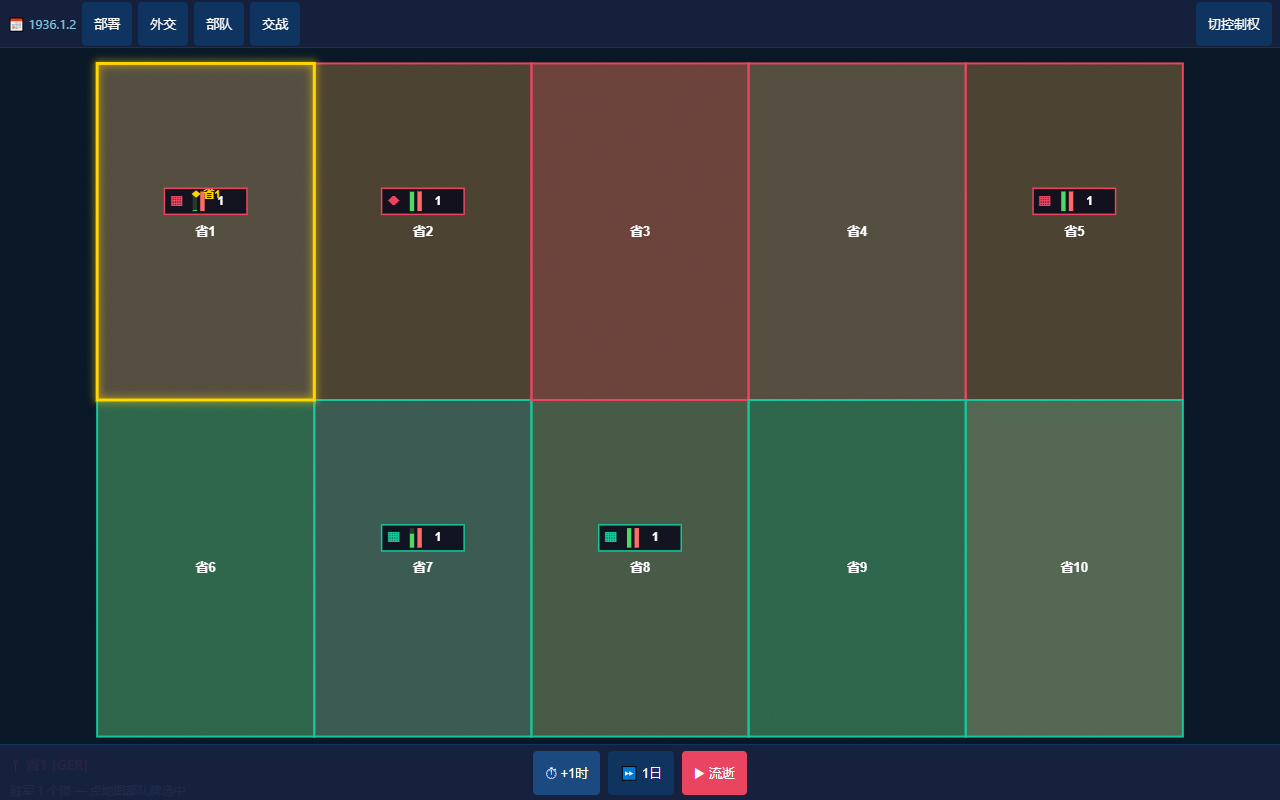
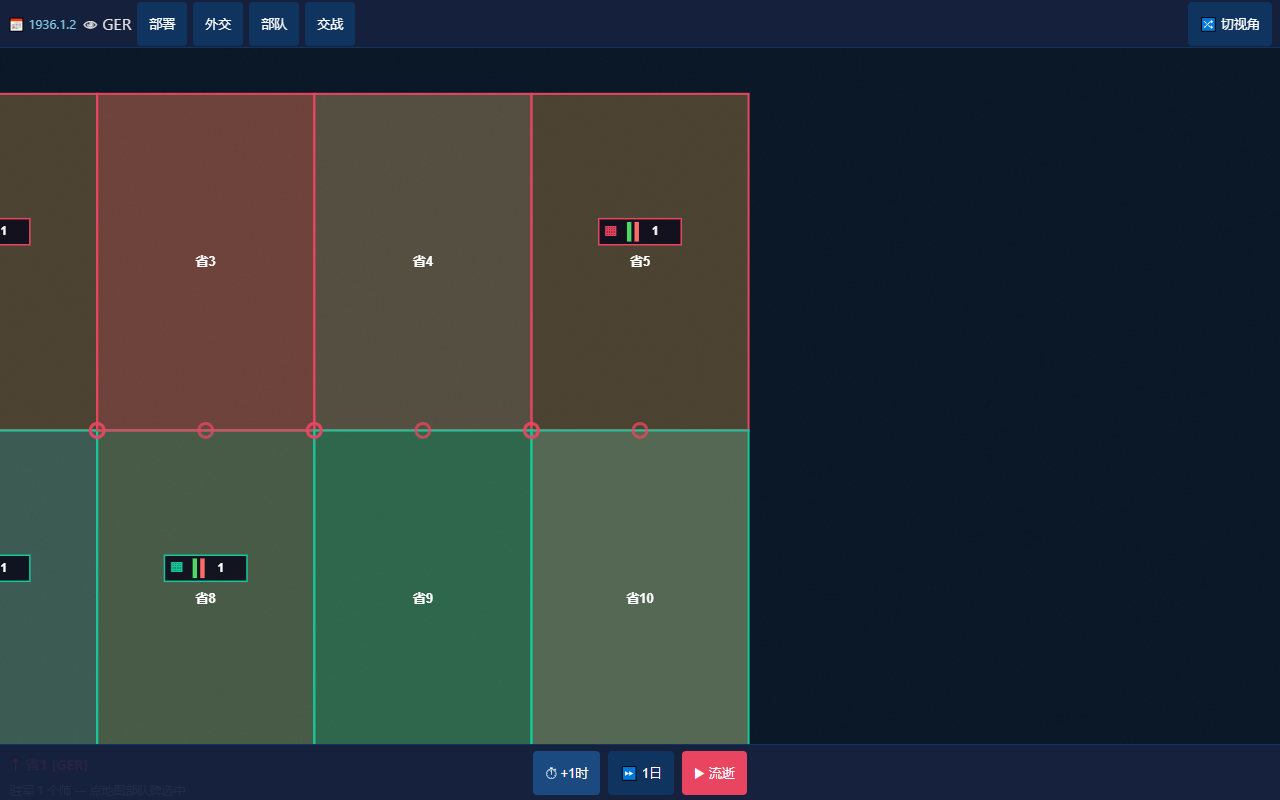
feat: 国家视角 — 单国家控制权限 + 切视角(对齐原版)
调研原版: 玩家始终只控制 player_tag 一个国家, 非玩家部队只能看不能动;
切国家用控制台 tag(模拟为'切视角'按钮)。原 demo 无权限校验=上帝模式。

引擎层(combat/commands.rs):
- 4 个下令命令(move/support_attack/queue_move/stop_order)加 player_controls 校验
- owner != player_tag → 静默拒绝下令; player_tag 空(CLI/测试)放行
- create_division 不校验(setup 建双方部队合理)
- TDD: t_player_cannot_order_foreign_division(GER 玩家不能动 FRA 师)

前端层:
- main.js: onDownCheck 返回 canCommand(owner==player), 敌师不进拖拽下令;
  onHit 加敌师信息查看(只看不下令); 删除上帝模式(改省归属)
- deployPanel: owner 锁定 player(只能部署自己国家)
- topbar: '切控制权'改'切视角'(弹 GER/FRA 选择, setPlayer 切 player_tag);
  顶栏显示当前视角标签(👁 GER)

web_demo 22/22: 含'拖拽敌师不可下令(menu=false loc 不变)'权限验证。
125 Rust 测试全绿, wasm 0 警告。

diff --git a/web/js/ui/topbar.js b/web/js/ui/topbar.js
@@ -1,25 +1,32 @@
-// 顶栏: 日期 + 系统按钮组(按 router 注册表生成) + [切控制权]测试按钮。
-// 对齐 spec §7.1: 时间控制移到底部命令栏(bottombar), 顶栏不再含时间按钮。
+// 顶栏: 日期 + 系统按钮组 + [切视角]按钮(切换控制的国家)。
+// 对齐 spec §7.1 + 国家视角: 时间控制在 bottombar; 切视角切 player_tag(原版控制台 tag)。
 import { h, clear } from '../core/el.js';
 import { subscribeKeys } from '../core/store.js';
 import { open as openPanel, names as panelNames } from '../core/router.js';
+import { setPlayer } from '../engine/commands.js';
+import { refresh } from '../main.js';
 
-let controlMode = false;
-window._controlMode = false;
-
-export function isControlMode() { return controlMode; }
+const NATIONS = ['GER', 'FRA'];
 
 export function render() {
   const el = document.getElementById('topbar');
   clear(el);
 
-  // 日期显示(路径订阅 date: 仅日期变时才更新文本)
+  // 日期 + 当前视角(路径订阅)
   const dateLabel = h('span', { class: 'topbar-date' }, '📅 --');
-  subscribeKeys(['date'], (state) => {
+  let currentNation = '';
+  subscribeKeys(['date', 'player'], (state) => {
     const d = state?.date;
     if (d) dateLabel.textContent = `📅 ${d.y}.${d.m}.${d.d}`;
+    currentNation = state?.player || '';
+    // 视角标签更新
+    if (viewLabel) viewLabel.textContent = `👁 ${currentNation}`;
   });
   el.append(dateLabel);
+
+  // 当前视角标签
+  let viewLabel = h('span', { class: 'topbar-view' }, `👁 ${currentNation}`);
+  el.append(viewLabel);
 
   // 系统按钮(按已注册面板生成)
   for (const name of panelNames()) {
@@ -29,11 +36,29 @@ export function render() {
   // 分隔
   el.append(h('span', { style: { flex: 1 } }));
 
-  // [切控制权]测试按钮(上帝模式, spec §7.2: 移出正式手势, 独立按钮)
+  // [切视角]按钮: 点击弹出 GER/FRA 选择, 切换 player_tag(模拟原版控制台 tag 切换)。
   el.append(h('button', {
     class: 'secondary',
-    style: { background: controlMode ? '#e94560' : '#0f3460' },
-    onclick() { controlMode = !controlMode; window._controlMode = controlMode; render(); },
-    text: controlMode ? '切换中...' : '切控制权',
+    onclick() { showNationSwitcher(currentNation); },
+    text: '🔀 切视角',
   }));
+}
+
+// 弹出国家选择(切换控制视角)
+function showNationSwitcher(current) {
+  const el = document.getElementById('order-menu');
+  el.innerHTML = '';
+  el.append(h('div', { class: 'order-title', text: '切换到哪个国家?' }));
+  for (const tag of NATIONS) {
+    el.append(h('button', {
+      class: tag === current ? '' : 'secondary',
+      onclick() {
+        setPlayer(tag);
+        el.classList.remove('open');
+        refresh();
+      },
+    }, `${tag === current ? '✓ ' : ''}${tag}`));
+  }
+  el.append(h('button', { class: 'secondary', onclick: () => el.classList.remove('open') }, '取消'));
+  el.classList.add('open');
 }

diff --git a/web/js/main.js b/web/js/main.js
@@ -144,17 +144,31 @@ async function main() {
       }
     }
 
+    // 命中优先级 1.5: 兵牌点击(显示师信息)。敌师不可下令但可查看; player 师此处仅兜底显示。
+    for (const d of (view.divisions || [])) {
+      const r = divCardRect(d, view, zoom);
+      if (r && sx >= r.x && sx <= r.x + r.w && sy >= r.y && sy <= r.y + r.h) {
+        drawer.close(); orderMenu.hide();
+        const player = view.player || '';
+        const mine = d.owner === player;
+        drawer.open([
+          h('h3', { text: `🎖 ${d.owner} 师#${d.id}${mine ? '' : ' (非己方)'}` }),
+          h('div', { class: 'div-card ' + (d.owner === 'GER' ? 'attacker' : 'defender') }, [
+            h('div', { text: d.template || '(无模板)', style: { fontWeight: 'bold', marginBottom: '4px' } }),
+            statbar(d.org, d.max_org, d.str, d.max_str, d.eq_ratio, d.mp_ratio),
+            h('div', { text: mine ? `📍省${d.loc}  拖拽兵牌到他省下令` : `📍省${d.loc}  (敌军, 不可下令)`,
+              style: { fontSize: '11px', color: mine ? '#7ec8e3' : '#e94560', marginTop: '6px' } }),
+          ]),
+        ]);
+        refresh();
+        return true;
+      }
+    }
+
     // 命中优先级 2: 省份多边形(pointInPolygon)。兵牌交互归拖拽(onDownCheck/onDragEnd), 不在此处理。
     const ids = view.provinces.map(p => p.id);
     const best = provinceAt(wp, ids);
     if (best == null) return false;
-
-    // 上帝模式(切控制权)
-    if (window._controlMode) {
-      const p = view.provinces.find(x => x.id === best);
-      if (p) { setProvinceController(best, p.controller === 'GER' ? 'FRA' : 'GER'); refresh(); }
-      return true;
-    }
 
     // 部署模式
     if (deployTarget) {
@@ -196,13 +210,15 @@ async function main() {
     const view = store.state;
     if (!view?.divisions?.length) return null;
     const cam = canvas.getCamera();
+    const player = view.player || '';
     for (const d of view.divisions) {
       const r = divCardRect(d, view, cam.zoom);
       if (r && sx >= r.x && sx <= r.x + r.w && sy >= r.y && sy <= r.y + r.h) {
-        // 命中兵牌: 选中该师(拖拽下令的就是它; 未移动松开则保持选中)
+        const canCommand = (d.owner === player);  // 国家视角: 只能下令自己的师
+        // 选中该师(可视化高亮); canCommand 决定能否拖拽下令
         selectedDiv = d.id;
         unitLayer.selectDivision(d.id);
-        return { divId: d.id };
+        return { divId: d.id, canCommand };
       }
     }
     return null;

diff --git a/web/js/views/deployPanel.js b/web/js/views/deployPanel.js
@@ -4,31 +4,26 @@ import { h, clear } from '../core/el.js';
 import { getTemplates } from '../engine/state.js';
 import { register } from '../core/router.js';
 
-const NATIONS = ['GER', 'FRA'];
-
 export function init() {
   register('部署', {
     open() {
       const host = document.getElementById('panel-host');
       clear(host);
       const templates = getTemplates();
-      // 国家选择
-      const ownerSel = h('select', {});
-      for (const t of NATIONS) ownerSel.append(h('option', { value: t, text: t }));
+      const player = (window._store?.state?.player) || 'GER';
       // 模板选择
       const tmplSel = h('select', {});
       for (const t of templates) tmplSel.append(h('option', { value: t, text: t }));
       const status = h('div', { style: { color: '#7ec8e3', fontSize: '12px', marginTop: '8px' } });
       host.append(
         h('h3', { text: '部署师' }),
-        h('label', { text: '国家' }), ownerSel,
+        h('div', { text: `国家: ${player} (当前视角)`, style: { color: '#9ab', fontSize: '12px', marginBottom: '8px' } }),
         h('label', { text: '模板' }), tmplSel,
         h('button', {
           onclick() {
-            const owner = ownerSel.value;
             const tmpl = tmplSel.value;
-            status.textContent = `已选 ${owner} ${tmpl}, 点地图省份部署`;
-            window._deployTemplate(owner, tmpl);  // 传 owner + tmpl
+            status.textContent = `已选 ${player} ${tmpl}, 点地图省份部署`;
+            window._deployTemplate(player, tmpl);  // owner 锁定 player(国家视角)
           },
           text: '选省部署',
         }),

diff --git a/web/js/core/input.js b/web/js/core/input.js
@@ -43,11 +43,11 @@ function onDown(e) {
   pointers.set(e.pointerId, { x: e.clientX, y: e.clientY, pointerType: e.pointerType });
   if (pointers.size === 1) {
     lastSingle = { x: e.clientX, y: e.clientY, moved: false, button: e.button, pointerType: e.pointerType };
-    // 桌面左键: 先问 main.js 是否命中兵牌 → 决定下令 vs 平移
+    // 桌面左键: 先问 main.js 是否命中兵牌 → 命中且可下令才进入拖拽下令模式
     if (e.pointerType !== 'touch' && e.button === 0) {
       const rect = document.getElementById('map').getBoundingClientRect();
       const hit = runDownCheck(e.clientX - rect.left, e.clientY - rect.top);
-      if (hit && hit.divId != null) {
+      if (hit && hit.divId != null && hit.canCommand) {
         dragOrder = { fromScreen: { x: e.clientX - rect.left, y: e.clientY - rect.top }, fromDiv: hit.divId };
       }
     }

diff --git a/src/combat/commands.rs b/src/combat/commands.rs
@@ -16,6 +16,20 @@ fn num_of(a: &Arg) -> Result<f64, CmdError> {
     a.as_num().ok_or_else(|| CmdError::RuntimeError(format!("期望数字, 得 {:?}", a)))
 }
 
+/// 国家视角权限校验(对齐原版单国家控制): 玩家只能下令 player_tag 国家的师。
+/// 返回 true = 玩家控制该师(可下令); false = 非玩家师(拒绝下令)。
+/// 玩家未设置(player_tag 空, 如 CLI/测试)时放行(向后兼容)。
+fn player_controls(world: &crate::runtime::World, div_id: u64) -> bool {
+    let player = &world.player_tag;
+    if player.is_empty() {
+        return true; // 无玩家设定(CLI/测试), 不限制
+    }
+    match world.divisions.get(&div_id) {
+        Some(d) => d.owner_tag == *player,
+        None => false,
+    }
+}
+
 /// 从汇总属性构建 Division(新路径: 数据驱动)
 /// template: Some(name) = 数据驱动建师(记模板引用); None = 旧路径(无模板)
 fn build_division_from_stats(owner: &str, loc: u32, stats: DivisionStats, template: Option<&str>) -> Division {
@@ -341,6 +355,10 @@ pub fn register(reg: &mut Registry) {
             Some(d) => (d.owner_tag.clone(), d.location_province),
             None => return Err(CmdError::RuntimeError(format!("move_division: 师 {div_id} 不存在"))),
         };
+        // 国家视角校验: 只能下令玩家自己的师(对齐原版单国家控制)
+        if !player_controls(w, div_id) {
+            return Ok(()); // 非玩家师, 静默拒绝
+        }
         // 防守主动撤退判定(规则4: 撤退只去邻近省份):
         // 师当前在战斗地块 + 目标是相邻的己方控制省 → 撤退
         let on_battle_province = w.battles.iter().any(|b| b.province == cur_loc);
@@ -412,6 +430,10 @@ pub fn register(reg: &mut Registry) {
     reg.register("support_attack", |w, p| {
         let div_id = num_of(np(p, "support_attack", "division")?)? as u64;
         let target = num_of(np(p, "support_attack", "target")?)? as u32;
+        // 国家视角校验
+        if !player_controls(w, div_id) {
+            return Ok(());
+        }
         // 【决策13】邻接检查: 目标省须与师 location 相邻, 否则静默无效
         let cur_loc = match w.divisions.get(&div_id) {
             Some(d) => d.location_province,
@@ -449,6 +471,10 @@ pub fn register(reg: &mut Registry) {
     // - Idle/Pending(纯防守/撤退变攻方)→ 忽略(无主动指令可停)
     reg.register("stop_order", |w, p| {
         let div_id = num_of(np(p, "stop_order", "division")?)? as u64;
+        // 国家视角校验
+        if !player_controls(w, div_id) {
+            return Ok(());
+        }
         // 读取判断(单独作用域, 释放借用后再 get_mut)
         let should_stop = {
             let Some(d) = w.divisions.get(&div_id) else { return Ok(()); };
@@ -475,6 +501,10 @@ pub fn register(reg: &mut Registry) {
     reg.register("queue_move", |w, p| {
         let div_id = num_of(np(p, "queue_move", "division")?)? as u64;
         let target = num_of(np(p, "queue_move", "target")?)? as u32;
+        // 国家视角校验(先于读取, 避免无效借用)
+        if !player_controls(w, div_id) {
+            return Ok(());
+        }
         // 读当前 location + owner(释放借用)
         let (cur_loc, owner) = match w.divisions.get(&div_id) {
             Some(d) => (d.location_province, d.owner_tag.clone()),

diff --git a/src/runtime/world.rs b/src/runtime/world.rs
@@ -402,6 +402,31 @@ mod tests {
         assert!((d.strength - 100.0).abs() < 1e-9, "换模板应保留 strength, 实际 {}", d.strength);
     }
 
+    #[test]
+    fn t_player_cannot_order_foreign_division() {
+        // 国家视角: 玩家(GER)不能下令敌国(FRA)的师。
+        let mut w = run_script_world(&[
+            "create_state = { id = 1 owner = GER }",
+            "create_state = { id = 2 owner = FRA }",
+            "create_province = { id = 1 state = 1 neighbors = { 2 } }",
+            "create_province = { id = 2 state = 2 neighbors = { 1 } }",
+            "create_division = { owner = FRA location = 2 template = \"Division d'Infanterie\" }",
+        ]);
+        w.player_tag = "GER".into();  // 玩家是 GER
+        let fra_div = w.divisions.values().next().map(|d| d.id).expect("应有 FRA 师");
+        let loc_before = w.divisions.get(&fra_div).unwrap().location_province;
+        // GER 玩家试图下令 FRA 师 → 应被拒绝(静默, 师不动)
+        run_script_world_on(&mut w, &format!("move_division = {{ division = {fra_div} target = 1 }}"));
+        let loc_after = w.divisions.get(&fra_div).unwrap().location_province;
+        assert_eq!(loc_before, loc_after, "玩家不能下令敌国师, FRA 师应保持原位");
+        // 但 GER 玩家能下令自己的师(无 player_tag 限制时也放行)
+        run_script_world_on(&mut w, "create_division = { owner = GER location = 1 template = \"Infanterie-Division\" }");
+        let ger_div = w.divisions.values().find(|d| d.owner_tag == "GER").map(|d| d.id).unwrap();
+        run_script_world_on(&mut w, &format!("move_division = {{ division = {ger_div} target = 2 }}"));
+        let ger_order = format!("{:?}", w.divisions.get(&ger_div).unwrap().order);
+        assert!(ger_order.contains("Moving"), "玩家应能下令自己的师, 实际 {ger_order}");
+    }
+
     /// 辅助: 在已有 World 上跑单个脚本(原地修改)
     fn run_script_world_on(w: &mut World, script: &str) {
         use crate::ast::lower::lower_effects;